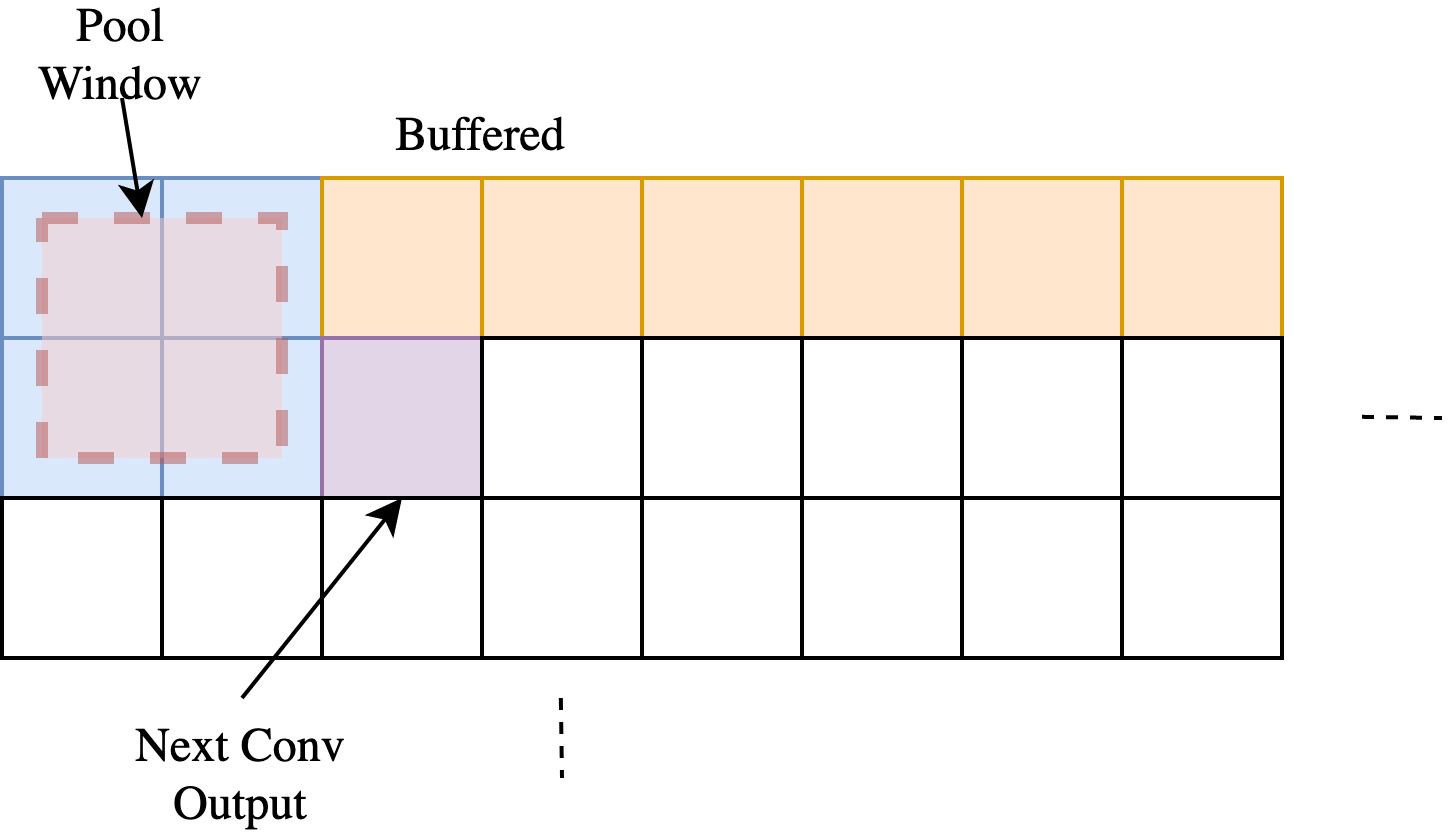
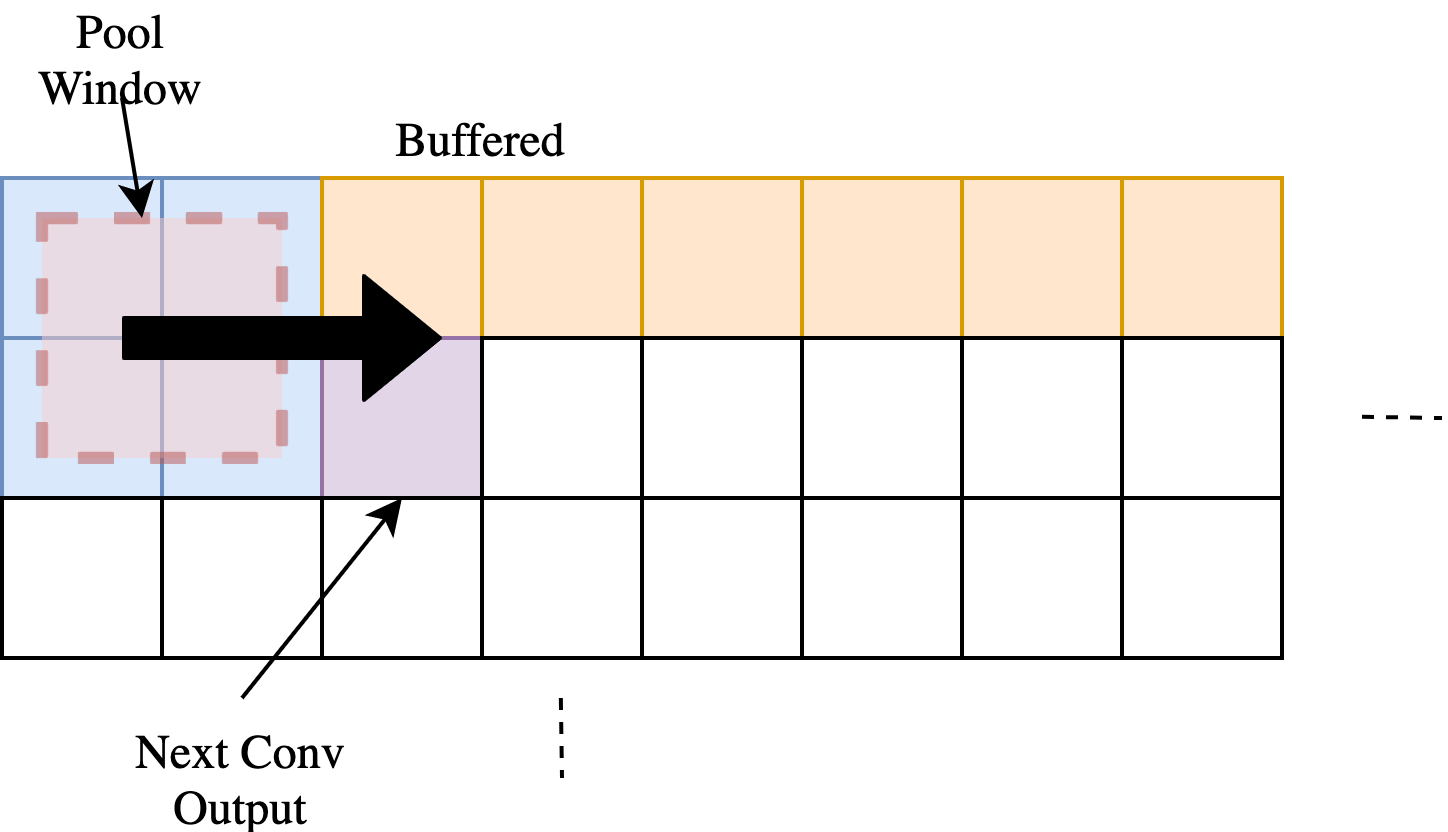
Doc Updates: Added Pooling Layer

diff --git a/tex/specification/02_pool.tex b/tex/specification/02_pool.tex
@@ -6,7 +6,7 @@ Because of the processing of the convolutional layer (see Figure~\ref{fig:hw-con
 \begin{figure}[hb]
 	\centering
 	\includegraphics[width=0.6\textwidth]{img/pool}
-	\caption[Pooling Operation]{Pooling Operation. The pool window (red-dashed-square) is shifted over the input data. The first input row needs to be buffered (orange) before processing can happen. }
+	\caption[Pooling Operation]{Pooling Operation. The pool window (red-dashed-square) applied to current image patch (blue) and shifted over the input data. The first input row needs to be buffered (orange) before processing can happen. Depth channels omitted for illustration purposes.}
 	\label{fig:hw-conv-operation}
 \end{figure}
 
